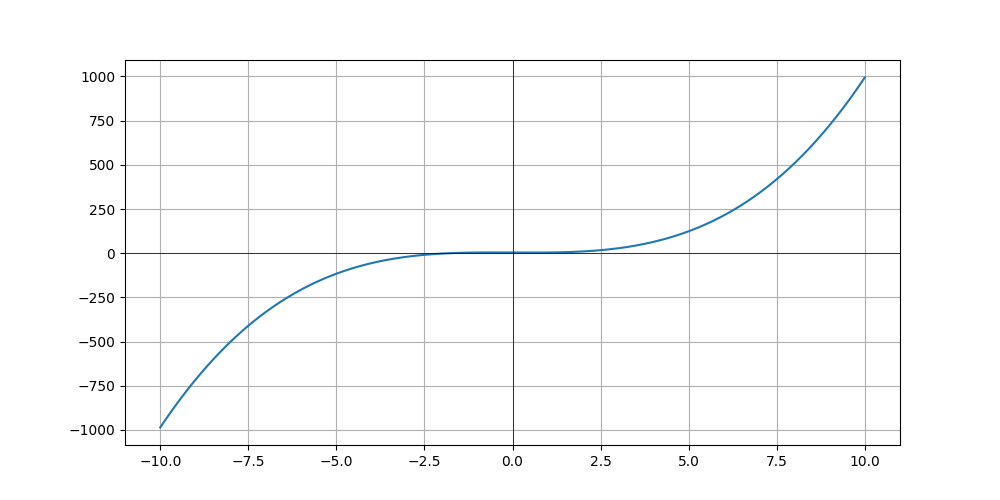
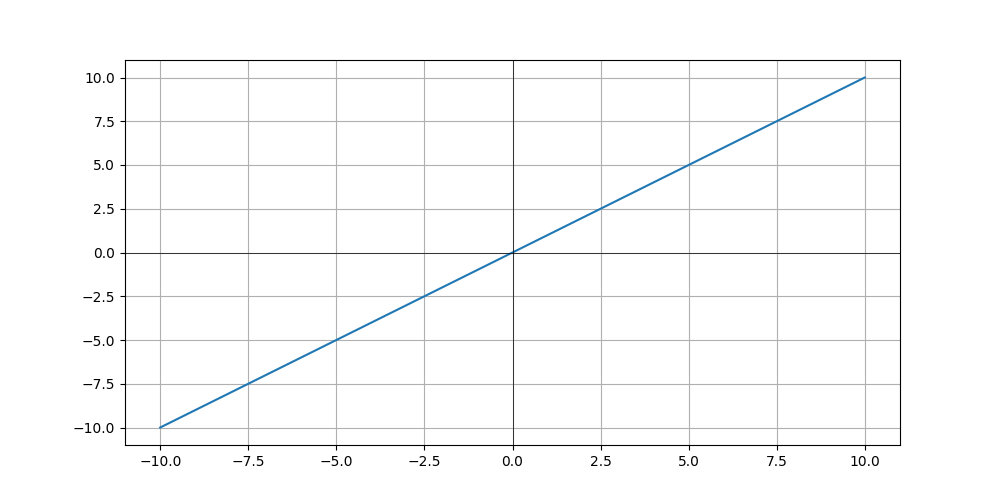
fixed simple iteration method

diff --git a/src/service/polynom_solver_service.py b/src/service/polynom_solver_service.py
@@ -1,5 +1,6 @@
 from src.util.chord_method import find_solution as find_solution_with_chord_method
 from src.util.newton_method import find_solution as find_solution_with_newton_method
+from src.util.simple_iteration_method import find_solution as find_solution_with_simple_iteration_method
 from src.util.isolation_intervals import get_isolation_intervals
 
 
@@ -42,5 +43,23 @@ def solve_with_newton(a: float, b: float, koeffs, accuracy: float):
         for i in intervals:
             root_number += 1
             x_i, iteration_count = find_solution_with_newton_method(i[0], i[1], koeffs, accuracy)
+            result += f"{root_number} root: f({x_i}) = {func(x_i)}, iteration count: {iteration_count}\n"
+        return result
+
+
+def solve_with_simple_iteration(a: float, b: float, koeffs, accuracy: float):
+    func = lambda x: sum(koeff * x ** i for i, koeff in enumerate(koeffs))
+    intervals = get_roots_intervals(a, b, 0.1, func)
+    result = ""
+
+    if len(intervals) == 0:
+        result += "There are no roots on this interval"
+        return result
+    else:
+        root_number = 0
+        result += f"Found roots:\n"
+        for i in intervals:
+            root_number += 1
+            x_i, iteration_count = find_solution_with_simple_iteration_method(i[0], i[1], koeffs, accuracy)
             result += f"{root_number} root: f({x_i}) = {func(x_i)}, iteration count: {iteration_count}\n"
         return result

diff --git a/src/controller/polynom_solver.py b/src/controller/polynom_solver.py
@@ -1,7 +1,7 @@
 from fastapi import APIRouter, Request, Form
 from fastapi.templating import Jinja2Templates
 
-from src.service.polynom_solver_service import solve_with_chords, solve_with_newton
+from src.service.polynom_solver_service import solve_with_chords, solve_with_newton, solve_with_simple_iteration
 from src.util.plot_generator import generate_plot
 
 router = APIRouter()
@@ -25,9 +25,13 @@ async def plot_graph(request: Request, k_for_x_3: float = Form(...), k_for_x_2: 
     # result = solve_with_chords(left_board, right_board,
     #                            [k_for_constant, k_for_x_1, k_for_x_2, k_for_x_3],
     #                            accuracy)
-    result = solve_with_newton(left_board, right_board,
-                               [k_for_constant, k_for_x_1, k_for_x_2, k_for_x_3],
-                               accuracy)
+
+    try:
+        result = solve_with_simple_iteration(left_board, right_board,
+                                   [k_for_constant, k_for_x_1, k_for_x_2, k_for_x_3],
+                                   accuracy)
+    except Exception as e:
+        result = e
     print(result)
     return templates.TemplateResponse("polynom_solver.html",
                                       {"request": request, "plot_data": "static/images/image.png", "result": result})
